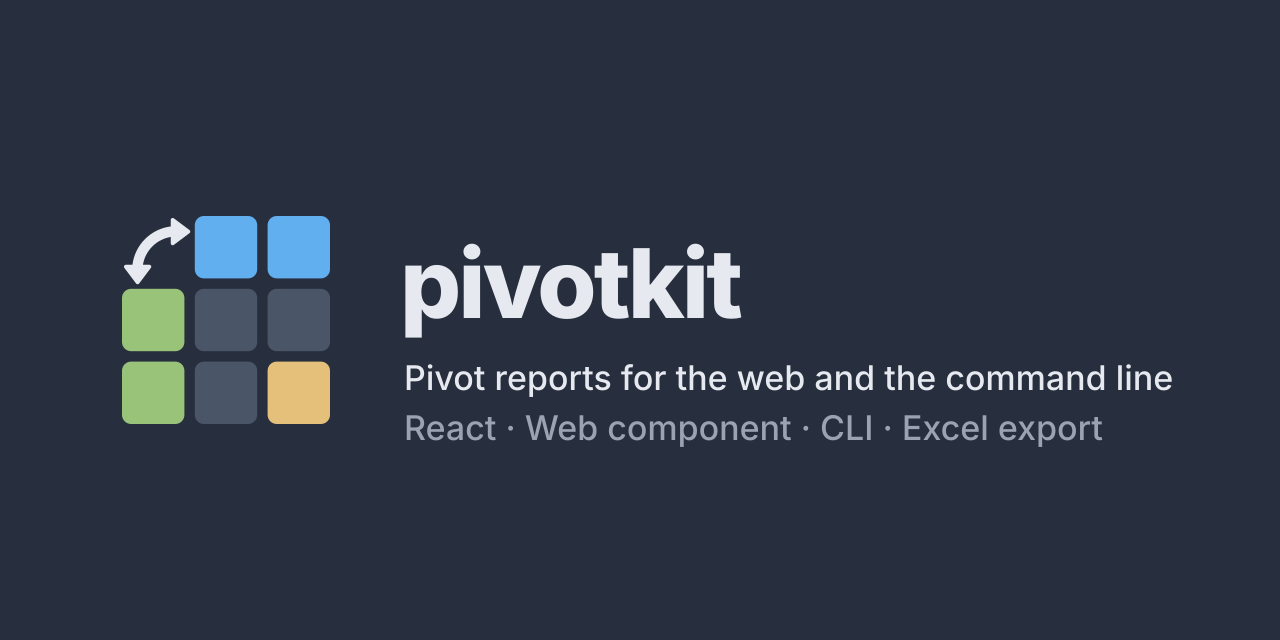
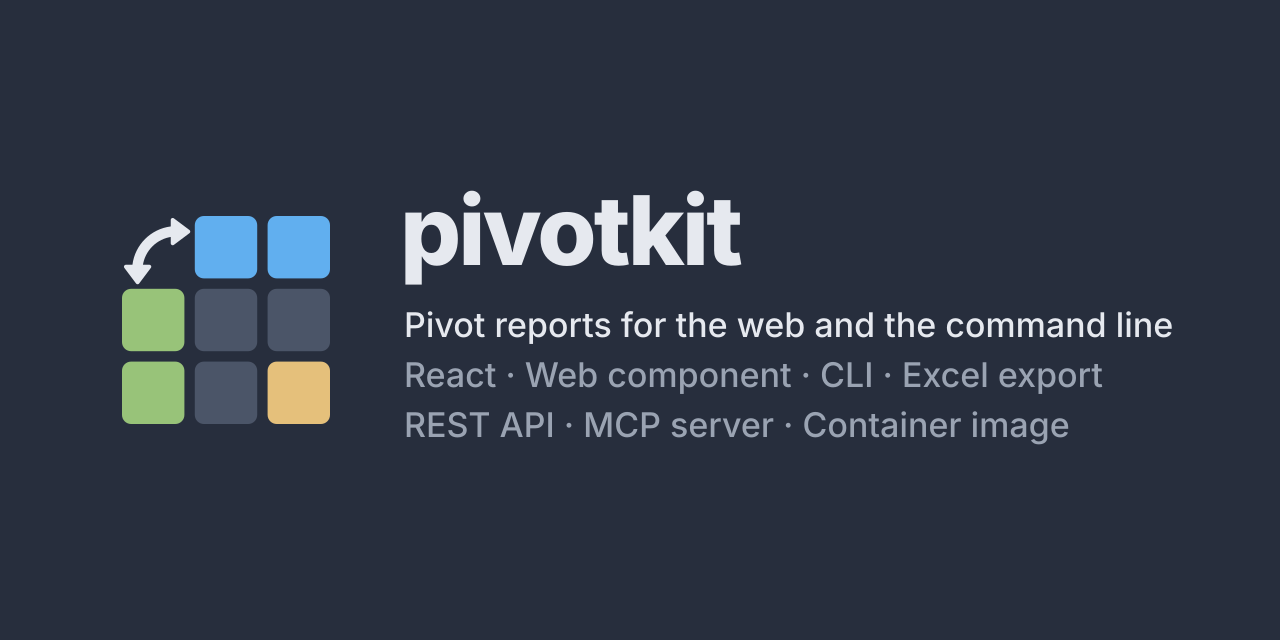
feat(pivotkit): name the REST API, MCP server and container image in the social preview (#17)

Changed region(s): [[0.3125, 0.2812, 0.9375, 0.5312], [0.3125, 0.5625, 0.9062, 0.6875]]

diff --git a/pivotkit/build.py b/pivotkit/build.py
@@ -26,9 +26,11 @@ from brand import DARK, LIGHT, Palette, sans_text, text, write_png, write_svg  #
 HERE = Path(__file__).resolve().parent
 OUT = HERE / "out"
 NAME = "pivotkit"
-TAGLINE = (
-    "Pivot reports for the web and the command line",
+TAGLINE = "Pivot reports for the web and the command line"
+# What pivotkit ships, one line each in the social preview: the front ends, then the services.
+FEATURES = (
     "React · Web component · CLI · Excel export",
+    "REST API · MCP server · Container image",
 )
 
 
@@ -104,10 +106,12 @@ def social(c: Palette) -> str:
     """
     body = f'<rect width="1280" height="640" fill="{c.bg}"/>'
     body += f'<g transform="translate(96 190) scale(0.65)">{table(c)}</g>'
-    left = 400
-    body += sans_text(NAME, left, 318, 96, c.text, "extrabold", tracking=-0.03)[0]
-    body += sans_text(TAGLINE[0], left + 4, 390, 34, c.text)[0]
-    body += sans_text(TAGLINE[1], left + 4, 440, 34, c.sub)[0]
+    # The text block (name cap height to the last feature line) is centred on the 260 px mark.
+    left, line = 400, 50
+    body += sans_text(NAME, left, 265, 96, c.text, "extrabold", tracking=-0.03)[0]
+    body += sans_text(TAGLINE, left + 4, 337, 34, c.text)[0]
+    for i, feature in enumerate(FEATURES):
+        body += sans_text(feature, left + 4, 387 + i * line, 34, c.sub)[0]
     return body
 
 
